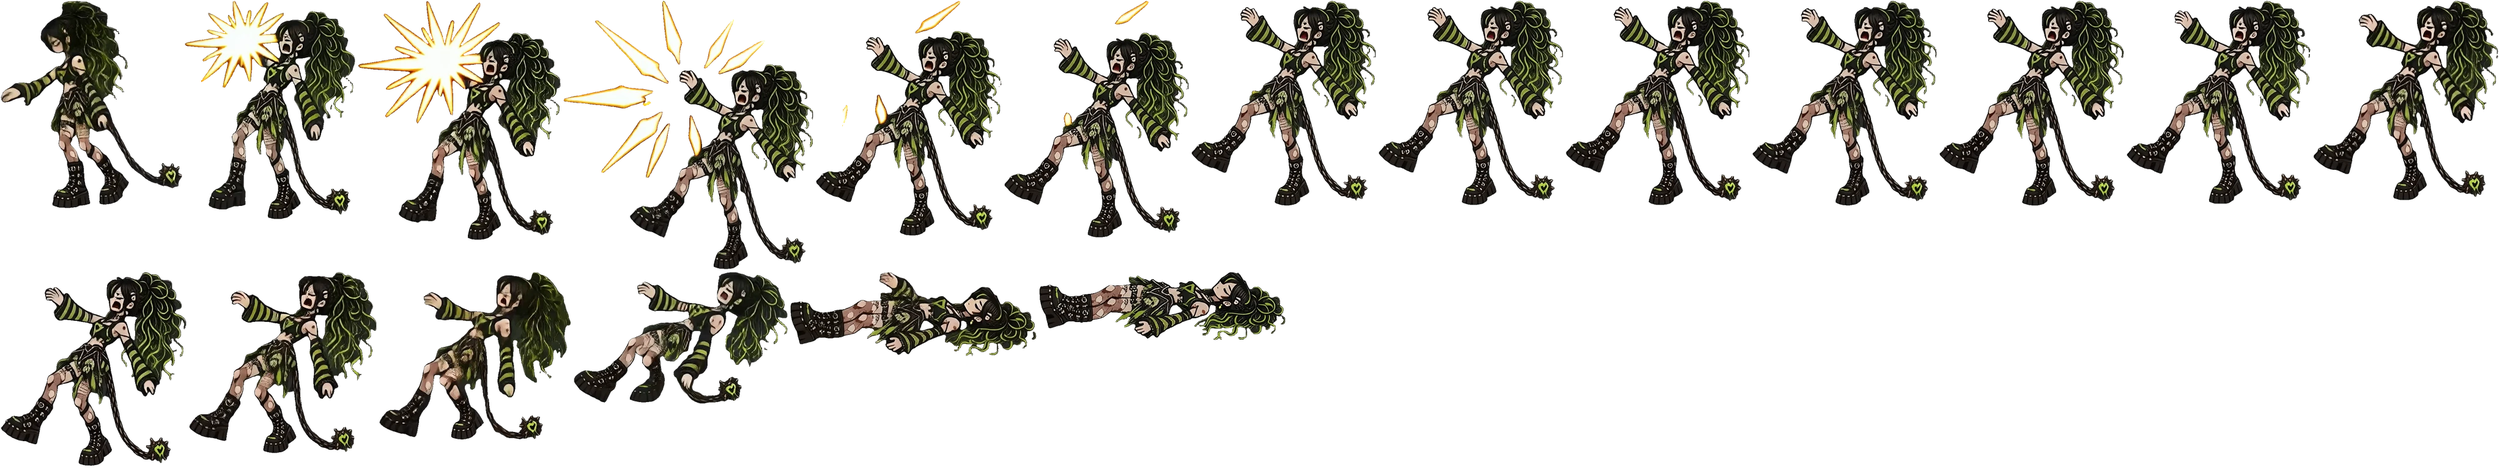
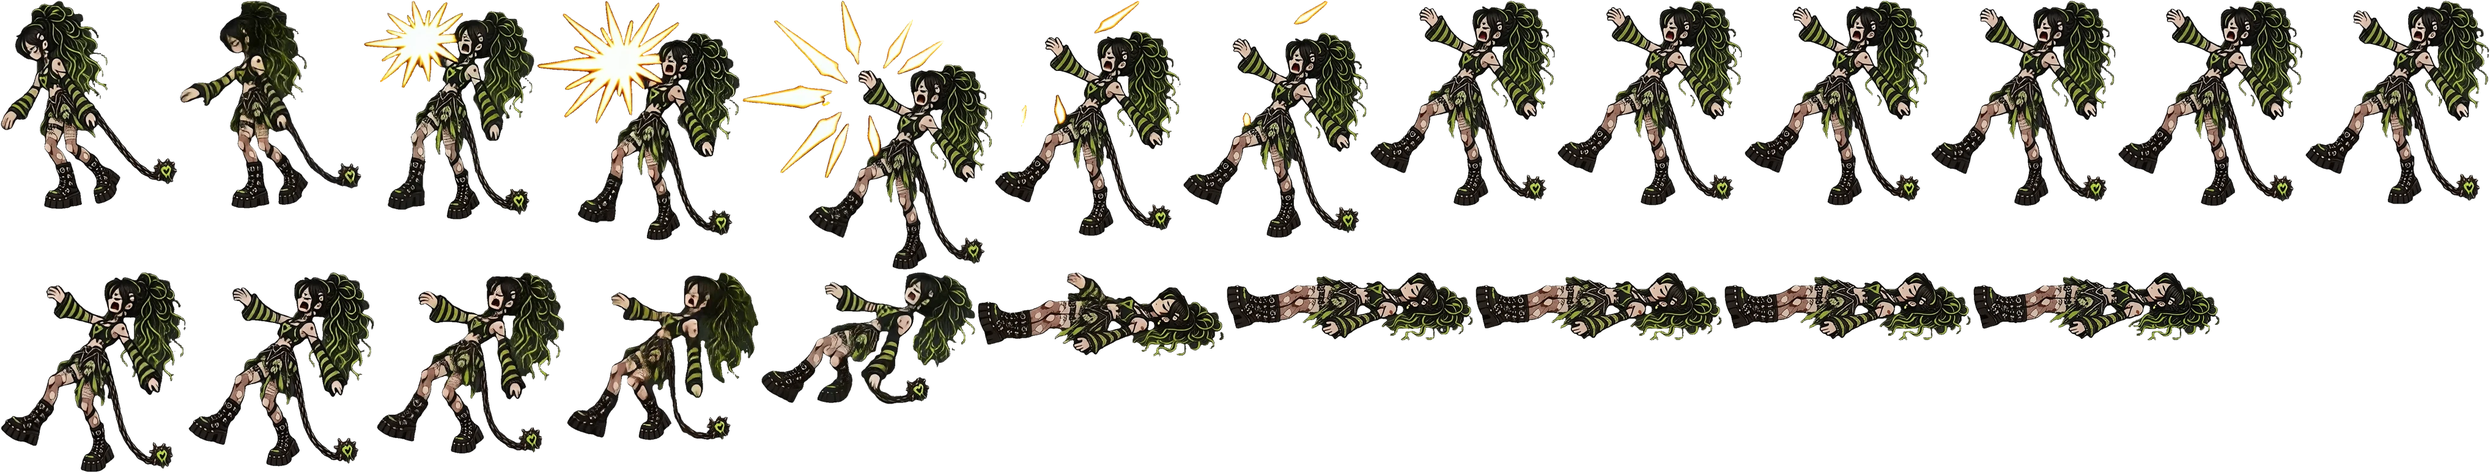
Add files via upload

Changed region(s): [[0.0, 0.0, 1.0, 0.9909], [0.3743, 0.0, 0.4055, 0.03]]

diff --git a/js/levels/level1.js b/js/levels/level1.js
@@ -345,7 +345,7 @@ const ZOMBIE_DEATH_FLOOR_OFFSETS = [];   // V9.24: new death frames are bottom-a
    animator's 1440x1440 frames by tools/build_chain_assets.py). Every frame row is
    [packX, packY, packW, packH, offsetX, offsetY]; the offsets place the trimmed frame
    relative to her feet. The art faces LEFT, like the Zombie Goth art. */
-const CHAIN_ATLAS_DATA = {"intro":{"size":[3927,3924],"scale":0.64,"frames":[[0,0,269,401,-211,-623],[271,0,268,401,-211,-622],[541,0,269,396,-211,-615],[812,0,269,389,-211,-605],[1083,0,274,387,-211,-601],[1359,0,277,392,-211,-610],[1638,0,300,400,-211,-621],[1940,0,333,405,-211,-629],[2275,0,359,417,-211,-649],[2636,0,376,470,-211,-731],[3014,0,380,539,-215,-839],[3396,0,418,517,-382,-804],[0,541,367,543,-436,-844],[369,541,388,463,-443,-719],[759,541,456,390,-399,-606],[1217,541,352,486,-211,-756],[1571,541,419,500,-292,-777],[1992,541,554,509,-450,-791],[2548,541,476,525,-423,-819],[3026,541,377,554,-440,-865],[3405,541,522,400,-477,-624],[0,1097,511,435,-446,-664],[513,1097,381,534,-209,-792],[896,1097,436,516,-269,-788],[1334,1097,584,519,-452,-807],[1920,1097,500,532,-427,-829],[2422,1097,385,548,-452,-856],[2809,1097,530,400,-491,-625],[3341,1097,503,429,-425,-649],[0,1647,380,526,-210,-771],[382,1647,429,524,-258,-815],[813,1647,579,511,-434,-794],[1394,1647,520,529,-429,-824],[1916,1647,372,562,-437,-877],[2290,1647,486,460,-464,-718],[2778,1647,541,409,-464,-623],[3321,1647,423,481,-279,-704],[0,2211,393,549,-210,-801],[395,2211,488,505,-330,-784],[885,2211,605,515,-462,-801],[1492,2211,497,538,-427,-839],[1991,2211,370,560,-443,-874],[2363,2211,518,401,-475,-626],[2883,2211,519,412,-442,-626],[3404,2211,405,508,-241,-740],[0,2773,410,579,-225,-830],[412,2773,543,504,-413,-782],[957,2773,596,514,-461,-798],[1555,2773,449,536,-424,-834],[2006,2773,405,559,-436,-873],[2413,2773,527,400,-467,-624],[2942,2773,508,424,-414,-634],[3452,2773,390,545,-209,-783],[0,3354,423,563,-237,-803],[425,3354,547,509,-404,-790],[974,3354,609,515,-461,-799],[1585,3354,478,535,-427,-833],[2065,3354,375,568,-431,-887],[2442,3354,513,452,-455,-706],[2957,3354,530,422,-447,-630]]},"walk":{"size":[3693,357],"scale":0.56,"frames":[[0,0,240,352,-172,-624],[242,0,246,354,-168,-630],[490,0,244,355,-188,-631],[736,0,264,352,-259,-628],[1002,0,245,347,-261,-618],[1249,0,237,340,-245,-609],[1488,0,223,343,-213,-614],[1713,0,216,348,-173,-623],[1931,0,218,353,-144,-630],[2151,0,225,355,-155,-633],[2378,0,236,352,-217,-632],[2616,0,275,347,-271,-625],[2893,0,278,345,-257,-614],[3173,0,267,347,-225,-614],[3442,0,251,352,-187,-622]]},"swipe":{"size":[4064,953],"scale":0.64,"frames":[[0,0,269,401,-211,-623],[271,0,269,401,-211,-623],[542,0,269,401,-211,-624],[813,0,269,401,-211,-624],[1084,0,268,403,-211,-626],[1354,0,263,403,-211,-627],[1619,0,253,408,-211,-630],[1874,0,251,404,-211,-627],[2127,0,268,396,-211,-614],[2397,0,291,396,-211,-614],[2690,0,300,401,-236,-622],[2992,0,356,419,-339,-650],[3350,0,341,398,-385,-619],[3693,0,371,394,-441,-620],[0,421,477,413,-457,-641],[479,421,502,463,-396,-690],[983,421,390,484,-180,-724],[1375,421,418,530,-182,-799],[1795,421,385,490,-122,-868],[2182,421,386,507,-97,-913]]},"death":{"size":[4086,766],"scale":0.56,"frames":[[0,0,299,342,-360,-608],[301,0,281,360,-319,-656],[584,0,334,394,-399,-725],[920,0,411,442,-518,-805],[1333,0,306,387,-325,-713],[1641,0,304,390,-322,-703],[1947,0,304,338,-321,-609],[2253,0,304,337,-321,-609],[2559,0,303,337,-320,-615],[2864,0,304,338,-320,-611],[3170,0,304,338,-319,-615],[3476,0,303,335,-317,-615],[3781,0,305,329,-310,-597],[0,444,306,320,-304,-580],[308,444,309,299,-293,-542],[619,444,316,277,-288,-501],[937,444,352,218,-304,-384],[1291,444,405,140,-321,-216],[1698,444,405,114,-321,-167]]},"stun":{"size":[4074,1517],"scale":0.64,"frames":[[0,0,255,380,-235,-588],[257,0,255,380,-235,-590],[514,0,252,382,-235,-592],[768,0,249,383,-235,-594],[1019,0,243,383,-235,-594],[1264,0,238,387,-235,-600],[1504,0,230,389,-234,-604],[1736,0,223,394,-234,-607],[1961,0,217,402,-234,-607],[2180,0,214,402,-228,-601],[2396,0,211,400,-220,-597],[2609,0,216,391,-213,-583],[2827,0,220,380,-211,-570],[3049,0,234,369,-211,-559],[3285,0,251,356,-211,-550],[3538,0,265,353,-211,-545],[3805,0,269,350,-211,-541],[0,404,272,350,-211,-541],[274,404,266,351,-211,-542],[542,404,260,354,-211,-547],[804,404,253,356,-211,-550],[1059,404,249,358,-212,-554],[1310,404,243,359,-212,-556],[1555,404,241,364,-212,-559],[1798,404,243,367,-212,-561],[2043,404,248,365,-212,-558],[2293,404,252,361,-212,-555],[2547,404,262,355,-212,-550],[2811,404,266,352,-212,-545],[3079,404,269,349,-212,-540],[3350,404,266,348,-212,-538],[3618,404,261,350,-212,-541],[0,773,255,353,-213,-545],[257,773,249,355,-213,-549],[508,773,241,358,-212,-555],[751,773,237,362,-212,-561],[990,773,237,367,-212,-564],[1229,773,240,371,-213,-566],[1471,773,243,370,-212,-566],[1716,773,249,370,-212,-566],[1967,773,253,365,-212,-561],[2222,773,261,360,-212,-555],[2485,773,265,356,-212,-551],[2752,773,266,354,-212,-548],[3020,773,266,352,-212,-545],[3288,773,262,353,-212,-545],[3552,773,255,355,-212,-550],[3809,773,250,360,-212,-557],[0,1146,243,363,-212,-563],[245,1146,237,366,-212,-568],[484,1146,237,368,-212,-570],[723,1146,237,369,-212,-570],[962,1146,240,369,-212,-568],[1204,1146,246,365,-212,-562],[1452,1146,252,362,-212,-558],[1706,1146,260,360,-212,-554],[1968,1146,264,355,-212,-548],[2234,1146,266,354,-212,-547],[2502,1146,266,355,-212,-550],[2770,1146,261,359,-212,-556],[3033,1146,256,362,-212,-562]]},"hurt":{"size":[4073,2138],"scale":0.64,"frames":[[0,0,269,400,-211,-622],[271,0,262,400,-211,-622],[535,0,250,399,-211,-621],[787,0,241,402,-213,-625],[1030,0,239,406,-224,-632],[1271,0,243,411,-241,-638],[1516,0,253,415,-265,-645],[1771,0,253,420,-276,-652],[2026,0,248,422,-278,-656],[2276,0,239,426,-262,-660],[2517,0,225,429,-234,-662],[2744,0,220,435,-219,-662],[2966,0,218,433,-213,-657],[3186,0,223,426,-218,-645],[3411,0,234,420,-231,-635],[3647,0,247,413,-249,-625],[0,437,260,410,-263,-619],[262,437,276,407,-279,-615],[540,437,297,406,-295,-614],[839,437,320,410,-307,-619],[1161,437,335,410,-309,-620],[1498,437,349,404,-298,-611],[1849,437,349,396,-266,-597],[2200,437,367,388,-275,-585],[2569,437,366,387,-282,-584],[2937,437,351,391,-284,-590],[3290,437,332,398,-283,-601],[3624,437,312,404,-279,-611],[0,849,287,414,-273,-621],[289,849,257,422,-264,-631],[548,849,228,423,-254,-638],[778,849,213,426,-242,-646],[993,849,221,427,-222,-654],[1216,849,240,435,-218,-661],[1458,849,260,438,-215,-664],[1720,849,265,439,-202,-665],[1987,849,262,439,-190,-665],[2251,849,267,436,-182,-660],[2520,849,284,437,-178,-662],[2806,849,308,434,-177,-657],[3116,849,318,429,-168,-649],[3436,849,307,418,-154,-632],[3745,849,291,410,-150,-620],[0,1290,276,406,-150,-613],[278,1290,263,407,-150,-615],[543,1290,250,412,-150,-622],[795,1290,239,419,-150,-633],[1036,1290,231,424,-150,-641],[1269,1290,227,428,-150,-647],[1498,1290,221,428,-150,-648],[1721,1290,224,428,-150,-648],[1947,1290,231,427,-150,-646],[2180,1290,236,426,-150,-645],[2418,1290,236,425,-150,-643],[2656,1290,234,426,-150,-644],[2892,1290,232,426,-150,-645],[3126,1290,236,425,-150,-643],[3364,1290,236,424,-150,-641],[3602,1290,234,422,-150,-639],[3838,1290,235,419,-150,-634],[0,1720,236,416,-150,-629]],"bx":[3,8,12,16,20,25,30,35,38,42,45,49,51,50,45,39,33,26,20,16,14,14,15,15,20,29,39,46,51,53,58,59,55,51,50,52,57,60,61,63,65,66,66,67,68,69,69,69,69,69,69,67,67,67,70,73,76,78,80,83,85]},"slam":{"size":[4070,1455],"scale":0.56,"frames":[[0,0,236,353,-122,-626],[238,0,241,353,-130,-626],[481,0,243,353,-124,-626],[726,0,249,353,-116,-626],[977,0,286,354,-116,-627],[1265,0,283,355,-116,-629],[1550,0,305,356,-169,-630],[1857,0,258,357,-230,-631],[2117,0,303,357,-302,-632],[2422,0,358,359,-393,-634],[2782,0,388,360,-435,-636],[3172,0,379,362,-403,-636],[3553,0,305,363,-130,-636],[0,365,307,363,-134,-636],[309,365,307,363,-134,-636],[618,365,303,363,-136,-636],[923,365,303,361,-136,-633],[1228,365,335,361,-135,-636],[1565,365,333,359,-133,-629],[1900,365,361,359,-133,-632],[2263,365,360,357,-130,-626],[2625,365,363,357,-130,-627],[2990,365,359,355,-124,-622],[3351,365,372,355,-121,-624],[3725,365,345,355,-118,-625],[0,730,234,358,-202,-629],[236,730,303,358,-308,-632],[541,730,364,358,-409,-632],[907,730,384,361,-433,-636],[1293,730,384,362,-424,-636],[1679,730,338,362,-322,-636],[2019,730,307,363,-131,-636],[2328,730,304,363,-134,-636],[2634,730,304,363,-134,-636],[2940,730,303,363,-136,-636],[3245,730,302,361,-137,-633],[3549,730,332,360,-132,-634],[0,1095,332,358,-133,-628],[334,1095,351,357,-130,-628],[687,1095,351,356,-130,-625],[1040,1095,367,356,-130,-626],[1409,1095,366,355,-129,-623],[1777,1095,357,355,-119,-622],[2136,1095,360,356,-118,-624],[2498,1095,232,357,-118,-627],[2732,1095,230,357,-116,-628]]}};
+const CHAIN_ATLAS_DATA = {"intro":{"size":[3927,3924],"scale":0.64,"frames":[[0,0,269,401,-211,-623],[271,0,268,401,-211,-622],[541,0,269,396,-211,-615],[812,0,269,389,-211,-605],[1083,0,274,387,-211,-601],[1359,0,277,392,-211,-610],[1638,0,300,400,-211,-621],[1940,0,333,405,-211,-629],[2275,0,359,417,-211,-649],[2636,0,376,470,-211,-731],[3014,0,380,539,-215,-839],[3396,0,418,517,-382,-804],[0,541,367,543,-436,-844],[369,541,388,463,-443,-719],[759,541,456,390,-399,-606],[1217,541,352,486,-211,-756],[1571,541,419,500,-292,-777],[1992,541,554,509,-450,-791],[2548,541,476,525,-423,-819],[3026,541,377,554,-440,-865],[3405,541,522,400,-477,-624],[0,1097,511,435,-446,-664],[513,1097,381,534,-209,-792],[896,1097,436,516,-269,-788],[1334,1097,584,519,-452,-807],[1920,1097,500,532,-427,-829],[2422,1097,385,548,-452,-856],[2809,1097,530,400,-491,-625],[3341,1097,503,429,-425,-649],[0,1647,380,526,-210,-771],[382,1647,429,524,-258,-815],[813,1647,579,511,-434,-794],[1394,1647,520,529,-429,-824],[1916,1647,372,562,-437,-877],[2290,1647,486,460,-464,-718],[2778,1647,541,409,-464,-623],[3321,1647,423,481,-279,-704],[0,2211,393,549,-210,-801],[395,2211,488,505,-330,-784],[885,2211,605,515,-462,-801],[1492,2211,497,538,-427,-839],[1991,2211,370,560,-443,-874],[2363,2211,518,401,-475,-626],[2883,2211,519,412,-442,-626],[3404,2211,405,508,-241,-740],[0,2773,410,579,-225,-830],[412,2773,543,504,-413,-782],[957,2773,596,514,-461,-798],[1555,2773,449,536,-424,-834],[2006,2773,405,559,-436,-873],[2413,2773,527,400,-467,-624],[2942,2773,508,424,-414,-634],[3452,2773,390,545,-209,-783],[0,3354,423,563,-237,-803],[425,3354,547,509,-404,-790],[974,3354,609,515,-461,-799],[1585,3354,478,535,-427,-833],[2065,3354,375,568,-431,-887],[2442,3354,513,452,-455,-706],[2957,3354,530,422,-447,-630]]},"walk":{"size":[3693,357],"scale":0.56,"frames":[[0,0,240,352,-172,-624],[242,0,246,354,-168,-630],[490,0,244,355,-188,-631],[736,0,264,352,-259,-628],[1002,0,245,347,-261,-618],[1249,0,237,340,-245,-609],[1488,0,223,343,-213,-614],[1713,0,216,348,-173,-623],[1931,0,218,353,-144,-630],[2151,0,225,355,-155,-633],[2378,0,236,352,-217,-632],[2616,0,275,347,-271,-625],[2893,0,278,345,-257,-614],[3173,0,267,347,-225,-614],[3442,0,251,352,-187,-622]]},"swipe":{"size":[4064,953],"scale":0.64,"frames":[[0,0,269,401,-211,-623],[271,0,269,401,-211,-623],[542,0,269,401,-211,-624],[813,0,269,401,-211,-624],[1084,0,268,403,-211,-626],[1354,0,263,403,-211,-627],[1619,0,253,408,-211,-630],[1874,0,251,404,-211,-627],[2127,0,268,396,-211,-614],[2397,0,291,396,-211,-614],[2690,0,300,401,-236,-622],[2992,0,356,419,-339,-650],[3350,0,341,398,-385,-619],[3693,0,371,394,-441,-620],[0,421,477,413,-457,-641],[479,421,502,463,-396,-690],[983,421,390,484,-180,-724],[1375,421,418,530,-182,-799],[1795,421,385,490,-122,-868],[2182,421,386,507,-97,-913]]},"death":{"size":[4072,775],"scale":0.56,"frames":[[0,0,291,343,-336,-610],[293,0,299,342,-360,-608],[594,0,281,360,-319,-656],[877,0,334,394,-399,-725],[1213,0,411,442,-518,-805],[1626,0,306,387,-325,-713],[1934,0,304,390,-322,-703],[2240,0,304,338,-321,-609],[2546,0,304,337,-321,-609],[2852,0,303,337,-320,-615],[3157,0,304,338,-320,-611],[3463,0,304,338,-319,-615],[3769,0,303,335,-317,-615],[0,444,305,329,-310,-597],[307,444,306,320,-304,-580],[615,444,309,299,-293,-542],[926,444,316,277,-288,-501],[1244,444,352,218,-304,-384],[1598,444,405,140,-321,-216],[2005,444,405,114,-321,-167],[2412,444,405,114,-321,-167],[2819,444,405,114,-321,-167],[3226,444,405,114,-321,-167]]},"stun":{"size":[4074,1517],"scale":0.64,"frames":[[0,0,255,380,-235,-588],[257,0,255,380,-235,-590],[514,0,252,382,-235,-592],[768,0,249,383,-235,-594],[1019,0,243,383,-235,-594],[1264,0,238,387,-235,-600],[1504,0,230,389,-234,-604],[1736,0,223,394,-234,-607],[1961,0,217,402,-234,-607],[2180,0,214,402,-228,-601],[2396,0,211,400,-220,-597],[2609,0,216,391,-213,-583],[2827,0,220,380,-211,-570],[3049,0,234,369,-211,-559],[3285,0,251,356,-211,-550],[3538,0,265,353,-211,-545],[3805,0,269,350,-211,-541],[0,404,272,350,-211,-541],[274,404,266,351,-211,-542],[542,404,260,354,-211,-547],[804,404,253,356,-211,-550],[1059,404,249,358,-212,-554],[1310,404,243,359,-212,-556],[1555,404,241,364,-212,-559],[1798,404,243,367,-212,-561],[2043,404,248,365,-212,-558],[2293,404,252,361,-212,-555],[2547,404,262,355,-212,-550],[2811,404,266,352,-212,-545],[3079,404,269,349,-212,-540],[3350,404,266,348,-212,-538],[3618,404,261,350,-212,-541],[0,773,255,353,-213,-545],[257,773,249,355,-213,-549],[508,773,241,358,-212,-555],[751,773,237,362,-212,-561],[990,773,237,367,-212,-564],[1229,773,240,371,-213,-566],[1471,773,243,370,-212,-566],[1716,773,249,370,-212,-566],[1967,773,253,365,-212,-561],[2222,773,261,360,-212,-555],[2485,773,265,356,-212,-551],[2752,773,266,354,-212,-548],[3020,773,266,352,-212,-545],[3288,773,262,353,-212,-545],[3552,773,255,355,-212,-550],[3809,773,250,360,-212,-557],[0,1146,243,363,-212,-563],[245,1146,237,366,-212,-568],[484,1146,237,368,-212,-570],[723,1146,237,369,-212,-570],[962,1146,240,369,-212,-568],[1204,1146,246,365,-212,-562],[1452,1146,252,362,-212,-558],[1706,1146,260,360,-212,-554],[1968,1146,264,355,-212,-548],[2234,1146,266,354,-212,-547],[2502,1146,266,355,-212,-550],[2770,1146,261,359,-212,-556],[3033,1146,256,362,-212,-562]]},"hurt":{"size":[4073,2138],"scale":0.64,"frames":[[0,0,269,400,-211,-622],[271,0,262,400,-211,-622],[535,0,250,399,-211,-621],[787,0,241,402,-213,-625],[1030,0,239,406,-224,-632],[1271,0,243,411,-241,-638],[1516,0,253,415,-265,-645],[1771,0,253,420,-276,-652],[2026,0,248,422,-278,-656],[2276,0,239,426,-262,-660],[2517,0,225,429,-234,-662],[2744,0,220,435,-219,-662],[2966,0,218,433,-213,-657],[3186,0,223,426,-218,-645],[3411,0,234,420,-231,-635],[3647,0,247,413,-249,-625],[0,437,260,410,-263,-619],[262,437,276,407,-279,-615],[540,437,297,406,-295,-614],[839,437,320,410,-307,-619],[1161,437,335,410,-309,-620],[1498,437,349,404,-298,-611],[1849,437,349,396,-266,-597],[2200,437,367,388,-275,-585],[2569,437,366,387,-282,-584],[2937,437,351,391,-284,-590],[3290,437,332,398,-283,-601],[3624,437,312,404,-279,-611],[0,849,287,414,-273,-621],[289,849,257,422,-264,-631],[548,849,228,423,-254,-638],[778,849,213,426,-242,-646],[993,849,221,427,-222,-654],[1216,849,240,435,-218,-661],[1458,849,260,438,-215,-664],[1720,849,265,439,-202,-665],[1987,849,262,439,-190,-665],[2251,849,267,436,-182,-660],[2520,849,284,437,-178,-662],[2806,849,308,434,-177,-657],[3116,849,318,429,-168,-649],[3436,849,307,418,-154,-632],[3745,849,291,410,-150,-620],[0,1290,276,406,-150,-613],[278,1290,263,407,-150,-615],[543,1290,250,412,-150,-622],[795,1290,239,419,-150,-633],[1036,1290,231,424,-150,-641],[1269,1290,227,428,-150,-647],[1498,1290,221,428,-150,-648],[1721,1290,224,428,-150,-648],[1947,1290,231,427,-150,-646],[2180,1290,236,426,-150,-645],[2418,1290,236,425,-150,-643],[2656,1290,234,426,-150,-644],[2892,1290,232,426,-150,-645],[3126,1290,236,425,-150,-643],[3364,1290,236,424,-150,-641],[3602,1290,234,422,-150,-639],[3838,1290,235,419,-150,-634],[0,1720,236,416,-150,-629]],"bx":[3,8,12,16,20,25,30,35,38,42,45,49,51,50,45,39,33,26,20,16,14,14,15,15,20,29,39,46,51,53,58,59,55,51,50,52,57,60,61,63,65,66,66,67,68,69,69,69,69,69,69,67,67,67,70,73,76,78,80,83,85]},"slam":{"size":[4070,1455],"scale":0.56,"frames":[[0,0,236,353,-122,-626],[238,0,241,353,-130,-626],[481,0,243,353,-124,-626],[726,0,249,353,-116,-626],[977,0,286,354,-116,-627],[1265,0,283,355,-116,-629],[1550,0,305,356,-169,-630],[1857,0,258,357,-230,-631],[2117,0,303,357,-302,-632],[2422,0,358,359,-393,-634],[2782,0,388,360,-435,-636],[3172,0,379,362,-403,-636],[3553,0,305,363,-130,-636],[0,365,307,363,-134,-636],[309,365,307,363,-134,-636],[618,365,303,363,-136,-636],[923,365,303,361,-136,-633],[1228,365,335,361,-135,-636],[1565,365,333,359,-133,-629],[1900,365,361,359,-133,-632],[2263,365,360,357,-130,-626],[2625,365,363,357,-130,-627],[2990,365,359,355,-124,-622],[3351,365,372,355,-121,-624],[3725,365,345,355,-118,-625],[0,730,234,358,-202,-629],[236,730,303,358,-308,-632],[541,730,364,358,-409,-632],[907,730,384,361,-433,-636],[1293,730,384,362,-424,-636],[1679,730,338,362,-322,-636],[2019,730,307,363,-131,-636],[2328,730,304,363,-134,-636],[2634,730,304,363,-134,-636],[2940,730,303,363,-136,-636],[3245,730,302,361,-137,-633],[3549,730,332,360,-132,-634],[0,1095,332,358,-133,-628],[334,1095,351,357,-130,-628],[687,1095,351,356,-130,-625],[1040,1095,367,356,-130,-626],[1409,1095,366,355,-129,-623],[1777,1095,357,355,-119,-622],[2136,1095,360,356,-118,-624],[2498,1095,232,357,-118,-627],[2732,1095,230,357,-116,-628]]}};
 // Video frame numbers of the kept slam frames (the slam pack index -> frame of the source video; 24 fps).
 const CHAIN_SLAM_VF = [37,39,41,43,45,47,49,51,53,55,57,59,61,62,63,64,65,66,67,68,69,70,71,74,77,80,83,84,86,88,90,92,94,95,96,97,98,99,100,101,102,103,106,109,112,115];
 /* V9.25: Patricia (Level 1 boss) animation packs: one WebP per move, built by tools/build_patricia_assets.py.
@@ -424,7 +424,7 @@ function loadCombatAssets() {
     zombieCountdownFrames.fight.src = 'assets/characters/combat/zombie-countdown-fight.webp?v=8600';
     for (const [name, a] of Object.entries(chainAtlas)) {
         const img = a.img;
-        img.src = `assets/characters/combat/chain-goth/chain-${name}.webp?v=9310`;
+        img.src = `assets/characters/combat/chain-goth/chain-${name}.webp?v=9340`;
         // Decode the big sheets in the background so the first time she uses a move there is no hitch (Safari decodes lazily).
         img.decode?.().then(() => {
             try { const t = document.createElement('canvas'); t.width = t.height = 1; t.getContext('2d').drawImage(img, 0, 0, 1, 1); } catch (e) {}
@@ -478,7 +478,7 @@ const CHAIN_CONTACTS = {
     swipe: { 14: [-325, -30] }
 };
 const CHAIN_SPARK_MS = 230;
-const CHAIN_DEATH_FRAME_MS = 38, CHAIN_DEATH_FALL_MS = 18 * 38, CHAIN_DEATH_HOLD_MS = 3000 - 18 * 38;   // V9.24: 18 hit-and-fall frames, then she lies still before fading
+const CHAIN_DEATH_FRAME_MS = 38, CHAIN_DEATH_FALL_MS = 22 * 38, CHAIN_DEATH_HOLD_MS = 3000 - 22 * 38;   // V9.34: new death (ChainGothDeath3): 22 hit-and-fall frames + the floor frame;   // V9.24: 18 hit-and-fall frames, then she lies still before fading
 
 let chainLastGood = null;
 function drawChainAtlasFrame(c, pack, index, x, floorY, face, renderScale = CHAIN_RENDER_SCALE, alpha = 1, rotation = 0, offsetX = 0) {
@@ -3459,25 +3459,33 @@ export function createLevel1(ui) {
     }
     // V9.30: comic speech bubble above a character's head (tail points down at (x, tipY)).
     function drawSpeechBubble(c, x, tipY, text, age, shiftX = 0) {
+        // V9.34: gothic bubble: ink-black, cut corners, double pink line, a long thorn-like tail and little stars.
         const pop = Math.min(1, age / 160);
         if (pop <= 0) return;
+        try { document.fonts?.load('italic 600 30px "Cormorant Garamond"'); } catch (e) {}
         c.save();
-        c.font = 'italic 700 27px Georgia, "Times New Roman", serif';
-        const w = Math.min(640, c.measureText(text).width + 54), h = 62;
-        const bx = Math.max(16, Math.min(COMBAT_W - w - 16, x + shiftX - w / 2)), by = tipY - 18 - h;
-        const baseL = Math.max(bx + 26, Math.min(bx + w - 56, x - 14));
+        c.font = 'italic 600 34px "Cormorant Garamond", Georgia, serif';
+        const w = Math.min(680, c.measureText(text).width + 90), h = 70, k = 14;
+        const bx = Math.max(16, Math.min(COMBAT_W - w - 16, x + shiftX - w / 2)), by = tipY - 22 - h;
+        const baseL = Math.max(bx + 30, Math.min(bx + w - 70, x - 14));
         c.translate(x, tipY); c.scale(.85 + .15 * pop, .85 + .15 * pop); c.translate(-x, -tipY);
         c.globalAlpha = pop;
-        c.fillStyle = 'rgba(255,244,250,.97)'; c.strokeStyle = '#3a1830'; c.lineWidth = 4; c.lineJoin = 'round';
-        c.beginPath();
-        c.moveTo(bx + 18, by); c.lineTo(bx + w - 18, by); c.quadraticCurveTo(bx + w, by, bx + w, by + 18);
-        c.lineTo(bx + w, by + h - 18); c.quadraticCurveTo(bx + w, by + h, bx + w - 18, by + h);
-        c.lineTo(baseL + 30, by + h); c.lineTo(x, tipY); c.lineTo(baseL, by + h);
-        c.lineTo(bx + 18, by + h); c.quadraticCurveTo(bx, by + h, bx, by + h - 18);
-        c.lineTo(bx, by + 18); c.quadraticCurveTo(bx, by, bx + 18, by);
-        c.closePath(); c.fill(); c.stroke();
-        c.fillStyle = '#2a1224'; c.textAlign = 'center'; c.textBaseline = 'middle';
-        c.fillText(text, bx + w / 2, by + h / 2 + 1);
+        const shape = (ins) => {
+            const l = bx + ins, r = bx + w - ins, t = by + ins, b = by + h - ins, kk = Math.max(2, k - ins);
+            c.beginPath();
+            c.moveTo(l + kk, t); c.lineTo(r - kk, t); c.lineTo(r, t + kk); c.lineTo(r, b - kk); c.lineTo(r - kk, b);
+            if (!ins) { c.lineTo(baseL + 34, b); c.quadraticCurveTo(baseL + 20, b + 8, x, tipY); c.quadraticCurveTo(baseL + 8, b + 4, baseL, b); }
+            c.lineTo(l + kk, b); c.lineTo(l, b - kk); c.lineTo(l, t + kk); c.closePath();
+        };
+        c.shadowColor = 'rgba(0,0,0,.6)'; c.shadowBlur = 12; c.shadowOffsetY = 4;
+        shape(0); c.fillStyle = '#12061a'; c.fill();
+        c.shadowColor = 'transparent';
+        c.lineJoin = 'miter'; c.strokeStyle = '#ef87aa'; c.lineWidth = 3; c.stroke();
+        shape(7); c.strokeStyle = 'rgba(239,135,170,.45)'; c.lineWidth = 1.5; c.stroke();
+        c.fillStyle = '#ef87aa'; c.font = '700 16px Georgia, serif'; c.textAlign = 'center'; c.textBaseline = 'middle';
+        c.fillText('\u2726', bx + 20, by + h / 2); c.fillText('\u2726', bx + w - 20, by + h / 2);
+        c.font = 'italic 600 34px "Cormorant Garamond", Georgia, serif'; c.fillStyle = '#ffe9f1';
+        c.fillText(text, bx + w / 2, by + h / 2 + 2);
         c.restore();
     }
 

diff --git a/css/screen-polish.css b/css/screen-polish.css
@@ -745,7 +745,6 @@ body.gg-calm *, body.gg-calm *::before, body.gg-calm *::after { animation-durati
 .would-pips i { width: 11px; height: 11px; border-radius: 50%; border: 2px solid #b4668a; background: transparent; display: block; }
 .would-pips i.now { box-shadow: 0 0 10px rgba(255, 130, 180, .8); }
 .would-pips i.done { background: #ef8eaa; border-color: #ffc7dc; }
-#relationship.overlay .would-now, #relationship .minigame-display.would-now { background: #8f2459 !important; border-color: #ffc7dc !important; color: #fff !important; }
 .slot-picker { position: absolute; inset: 0; z-index: 40; display: grid; place-items: center; background: rgba(8,4,12,.8); }
 .slot-box { width: min(520px, 92vw); display: flex; flex-direction: column; gap: 10px; padding: 18px; color: #f0dde6; background: #140c18; border: 1px solid #8a4d6c; border-radius: 10px; }
 .slot-title { text-align: center; font-size: 1.15rem; letter-spacing: .08em; color: #ef87aa; }
@@ -760,5 +759,46 @@ body.gg-calm *, body.gg-calm *::before, body.gg-calm *::after { animation-durati
 .slot-confirm-btns button, .slot-back { padding: 8px 14px; border-radius: 8px; border: 1px solid #ef87aa; background: #5a2542; color: #fff; font: inherit; cursor: pointer; }
 .slot-back { align-self: center; background: #231329; }
 .slot-confirm-btns .slot-no { background: #231329; }
-#encounter.enc-rel .encounter-art { max-height: 50dvh !important; }
-#encounter.enc-rel .encounter-copy { font-size: clamp(.95rem, 1.5vw, 1.2rem) !important; }
+
+/* ===================== V9.34b ===================== */
+@font-face { font-family: 'Cormorant Garamond'; font-style: normal; font-weight: 600; src: url('../assets/fonts/CormorantGaramond-regular-600.woff') format('woff'); font-display: swap; }
+@font-face { font-family: 'Cormorant Garamond'; font-style: italic; font-weight: 600; src: url('../assets/fonts/CormorantGaramond-italic-600.woff') format('woff'); font-display: swap; }
+:root { --gg-font: 'Cormorant Garamond', Georgia, 'Times New Roman', serif; }
+
+/* Relationship challenge encounter: big picture (the picture already says the name, so no big title); lead line a bit bigger. */
+#encounter.enc-rel .encounter-art { max-height: 63dvh !important; }
+#encounter .encounter-copy .enc-lead { font-size: 1.12em; }
+
+/* Would You: the changing phrase sits right under the explanation, and the button is a normal size (no pink flash) */
+#relationship .timing-button { display: block !important; width: auto !important; min-width: 260px !important; max-width: 340px; margin: 12px auto 6px !important; }
+#relationship #would-display { margin: 4px auto 8px !important; }
+#relationship #would-display.would-now { background: #18121b !important; color: inherit !important; border-color: var(--line) !important; box-shadow: none !important; animation: none !important; transform: none !important; }
+#relationship #would-tap.flash, #relationship #would-tap:active { filter: none; }
+
+/* Font F (Cormorant Garamond) for all reading text. It is a small-looking face, so sizes are nudged up. */
+#dialogue, #combat .combat-note, .encounter-copy, .ironic-copy, .quiz-copy, .quiz-question, .quiz-answers button, .quiz-feedback,
+#relationship .minigame-display, #relationship #would-feedback, #relationship .story-copy, .story-copy, .patricia-card p, .intro-copy {
+  font-family: var(--gg-font) !important; font-weight: 600 !important; letter-spacing: .01em;
+}
+#dialogue { font-size: 19px !important; line-height: 1.35 !important; }
+#combat .combat-note { font-size: 20px !important; line-height: 1.3 !important; }
+.encounter-copy { font-size: clamp(1.3rem, 2.4vw, 1.8rem) !important; line-height: 1.3 !important; }
+.ironic-copy { font-size: clamp(1.05rem, 1.7vw, 1.3rem) !important; line-height: 1.3 !important; }
+#relationship .minigame-display { font-size: clamp(1.3rem, 2.3vw, 1.7rem) !important; font-style: italic; }
+.quiz-question { font-size: clamp(1.3rem, 2.2vw, 1.7rem) !important; }
+.quiz-answers button { font-size: clamp(1.05rem, 1.7vw, 1.35rem) !important; }
+
+/* Themed text boxes: ink-black card, a thin double pink line like a gothic window frame, and little stars on the top edge. */
+#dialogue, #combat .combat-note {
+  background: rgba(14, 6, 18, .94) !important; color: #ffe9f1 !important;
+  border: 1px solid #b4668a !important; border-radius: 3px !important;
+  box-shadow: inset 0 0 0 3px #0e0612, inset 0 0 0 4px rgba(239,135,170,.45), 0 4px 14px rgba(0,0,0,.6) !important;
+  backdrop-filter: none !important; position: relative;
+}
+#combat .combat-note { position: absolute !important; }
+#dialogue::before, #dialogue::after, #combat .combat-note::before, #combat .combat-note::after {
+  content: "\2726"; position: absolute; top: -11px; font-size: 14px; line-height: 1; color: #ef87aa; background: #0b050f; padding: 0 6px;
+}
+#dialogue::before, #combat .combat-note::before { left: 70px; }
+#dialogue::after, #combat .combat-note::after { right: 22px; }
+#relationship.overlay .ironic-copy { font-size: clamp(1.15rem, 1.9vw, 1.4rem) !important; line-height: 1.3 !important; max-width: 980px !important; text-align: center !important; }

diff --git a/js/game.js b/js/game.js
@@ -307,8 +307,8 @@ function mountLevel1(loadSaved=false){
         <img class="story-art relationship-image" src="assets/story/would-you.webp" alt="Scarlett and Olly in bed, with the words Would You?" />
         <div class="story-title">WOULD YOU...</div>
         <div class="ironic-copy">Sometimes princesses have far too much going on in their heads to get their words out right. In cases like these one can either 1. try to be helpful or 2. take the piss. You chose the latter. Press WOULD YOU? at the correct time to complete the puzzle.</div>
-        <div class="timing-track"><div id="timing-zone" class="timing-zone"></div><div id="timing-cursor" class="timing-cursor"></div></div>
         <div id="would-display" class="minigame-display">“Can I ask you a question... have you ever...”</div>
+        <div class="timing-track"><div id="timing-zone" class="timing-zone"></div><div id="timing-cursor" class="timing-cursor"></div></div>
         <button id="would-tap" class="primary timing-button">WOULD YOU?</button>
         <p id="would-feedback" class="small">Listen for the phrase. The timing gets quicker each round.</p>
         <div id="would-pips" class="would-pips" aria-label="Rounds completed"></div>

diff --git a/tools/build_chain_assets.py b/tools/build_chain_assets.py
@@ -25,9 +25,9 @@ SLAM_FRAMES = (list(range(37, 62, 2)) + list(range(62, 71)) + list(range(71, 84,
                list(range(84, 94, 2)) + list(range(94, 103)) + list(range(103, 118, 3)))
 ANIMS = {
     'intro': ('321 fight', list(range(0, 60)), 0.64, STD, 1.0),                 # frames 0-27 build up, 28-59 loop
-    'walk':  ('CGwalk2',   list(range(36, 51)), 0.56, STD, 1.0),                # V9.24: new creepier walk loop (frames 36-50)
+    'walk':  ('CGwalk2',   list(range(4, 19)), 0.56, STD, 1.0),                 # V9.30: the face-visible side of the walk (frames 4-18, native facing LEFT)
     'swipe': ('chaingothchainswipe', list(range(0, 20)), 0.56, STD, 1.0),       # 0-9 wind-up, 10-19 sweep
-    'death': ('ChainGothDeath-retry', list(range(8, 26)) + [60], 0.56, STD, 1.0),   # V9.24: 8-25 hit + fall, 60 = lying on the floor
+    'death': ('ChainGothDeath3', list(range(7, 29)) + [60], 0.56, STD, 1.0),   # V9.24: 8-25 hit + fall, 60 = lying on the floor
     'spin':  ('chainspinattack', list(range(0, 25, 2)) + list(range(25, 61)), 0.56, (539.5, 730), 1.634),   # 13 wind-up frames, then 36 spin frames
     'stun':  ('ChainGothStunned', list(range(0, 61)), 0.56, (750, 971), 1.163),
     'hurt':  ('HurtReactionChainGoth', list(range(0, 47)), 0.56, STD, 1.0),
